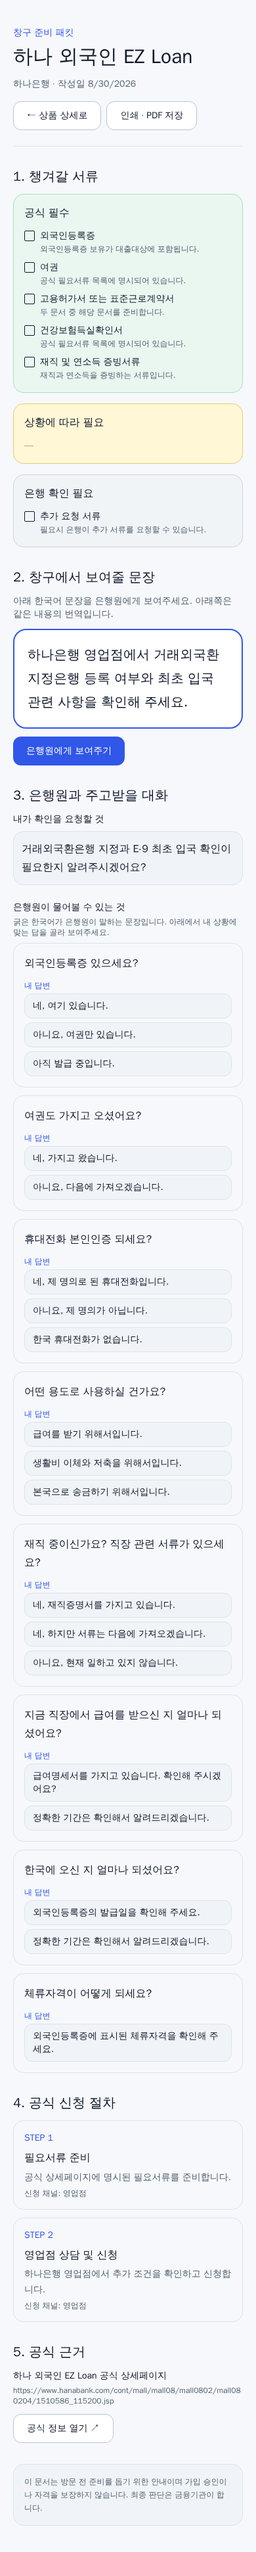
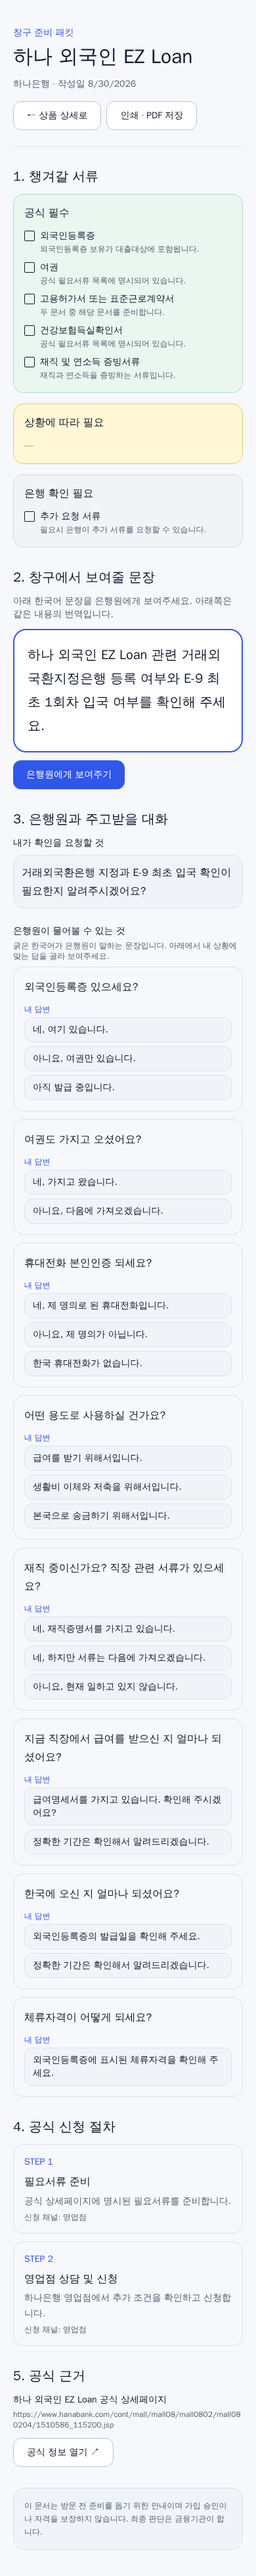
fix: keep section 2 when a product has nothing left to confirm
The counter script only rendered when the explanation carried a bank
inquiry, so a product with no external or unknown condition produced a
packet numbered 1, 3, 4, 5. A customer still has to open the
conversation, so the section now falls back to an opening request
naming the product. It asks; it claims nothing.

diff --git a/frontend/components/bank-visit-packet.tsx b/frontend/components/bank-visit-packet.tsx
@@ -13,7 +13,7 @@ import { getProduct } from "@/services/product";
 import { getPersonalizedGuidance } from "@/services/guidance";
 import { precheckEligibility } from "@/services/eligibility";
 import { getAiExplanation } from "@/services/ai-explanation";
-import { conditionAsks, tellerExchangesFor } from "@/lib/teller-questions";
+import { conditionAsks, openingRequest, tellerExchangesFor } from "@/lib/teller-questions";
 import type { ProductDocumentRequirement } from "@/types/guidance";
 
 const copy = {
@@ -45,7 +45,10 @@ export function BankVisitPacket() {
   if (!product.data || !guidance.data || !precheck.data || !explanation.data) return <Shell><p className="text-sm text-muted" aria-live="polite">{text.loading}</p></Shell>;
 
   const name = productNameLabel(locale, product.data.productCode, product.data.productName);
-  const inquiry = explanation.data.inquiry;
+  // Nothing left for the bank to confirm still needs an opening line, and section 2 must not
+  // vanish and leave the packet numbered 1, 3, 4, 5.
+  const inquiry = explanation.data.inquiry
+    ?? { korean: openingRequest(product.data.productName).ko, localized: openingRequest(product.data.productName)[locale] };
   const confirmations = [...precheck.data.externalChecks, ...precheck.data.unknownRules];
   const exchanges = tellerExchangesFor(product.data.rules.map((rule) => rule.ruleKey));
   const groups: Array<{ title: string; tone: string; items: ProductDocumentRequirement[] }> = [
@@ -78,14 +81,14 @@ export function BankVisitPacket() {
       </div>}
     </Section>
 
-    {inquiry ? <Section title={text.script}>
+    <Section title={text.script}>
       <p className="text-sm text-muted print:hidden">{text.scriptHint}</p>
       <div className="mt-3 rounded-panel border-2 border-brand bg-surface p-5">
         <p className="text-xl font-bold leading-9 text-ink sm:text-2xl">{inquiry.korean}</p>
         {locale === "ko" ? null : <p className="mt-4 border-t border-line pt-4 text-sm leading-7 text-muted">{inquiry.localized}</p>}
       </div>
       <button className="ui-button ui-button-primary mt-3 print:hidden" onClick={() => setShowing(true)} type="button">{text.show}</button>
-    </Section> : null}
+    </Section>
 
     <Section title={text.confirm}>
       <h3 className="text-sm font-bold text-ink">{text.iAsk}</h3>
@@ -118,7 +121,7 @@ export function BankVisitPacket() {
 
     <p className="mt-8 rounded-card border border-line bg-surface-subtle p-4 text-xs leading-5 text-muted">{text.notice}</p>
 
-    {showing && inquiry ? <div className="fixed inset-0 z-50 flex flex-col bg-surface p-6 print:hidden" role="dialog" aria-modal="true">
+    {showing ? <div className="fixed inset-0 z-50 flex flex-col bg-surface p-6 print:hidden" role="dialog" aria-modal="true">
       <button className="ui-button ui-button-secondary self-end" onClick={() => setShowing(false)} type="button">{text.close}</button>
       <div className="flex flex-1 items-center overflow-y-auto py-6"><p className="text-2xl font-bold leading-10 text-ink sm:text-4xl sm:leading-[3.5rem]">{inquiry.korean}</p></div>
     </div> : null}

diff --git a/frontend/e2e/bank-visit-packet.spec.ts b/frontend/e2e/bank-visit-packet.spec.ts
@@ -35,7 +35,7 @@ async function json(route: Route, body: unknown, status = 200) {
   await route.fulfill({ status, contentType: "application/json", body: JSON.stringify(body) });
 }
 
-async function mockPacketApi(page: Page) {
+async function mockPacketApi(page: Page, eligibilityOverride = eligibility, explanationOverride = explanation) {
   await page.addInitScript(() => {
     localStorage.setItem("visafyProfileId", "1");
     localStorage.setItem("visafyProfileSessionId", "e2e-session");
@@ -45,8 +45,8 @@ async function mockPacketApi(page: Page) {
     const path = new URL(route.request().url()).pathname;
     if (path === "/api/products/10") return json(route, product);
     if (path === "/api/products/10/guidance") return json(route, guidance);
-    if (path === "/api/eligibility/pre-check") return json(route, eligibility);
-    if (path === "/api/ai/explanation") return json(route, explanation);
+    if (path === "/api/eligibility/pre-check") return json(route, eligibilityOverride);
+    if (path === "/api/ai/explanation") return json(route, explanationOverride);
     if (path === "/api/profiles/1") return json(route, { id: 1, sessionId: "e2e-session", nationality: "VN", language: "en" });
     return json(route, { message: `Unhandled ${path}` }, 500);
   });
@@ -109,4 +109,18 @@ test("the packet asks for a profile before it is built", async ({ page }) => {
 
   await expect(page.getByText("먼저 임시 금융 프로필을 입력해 주세요.")).toBeVisible();
   await expect(page.getByRole("link", { name: /프로필 입력/ })).toBeVisible();
+});
+
+test("a product with nothing left to confirm still gets all five sections", async ({ page }) => {
+  await mockPacketApi(page, { ...eligibility, externalChecks: [], unknownRules: [] },
+    { ...explanation, inquiry: null });
+  await page.goto("/products/10/packet");
+
+  // Section 2 must not vanish and leave the packet numbered 1, 3, 4, 5.
+  for (const heading of ["1. Documents to bring", "2. What to show at the counter",
+    "3. Talking with the teller", "4. Official application steps", "5. Official evidence"]) {
+    await expect(page.getByRole("heading", { name: heading })).toBeVisible();
+  }
+  await expect(page.getByText("안녕하세요. 외국인 전용 입출금통장 상품에 가입하고 싶습니다.")).toBeVisible();
+  await expect(page.getByText("There is nothing further to confirm.")).toBeVisible();
 });

diff --git a/frontend/lib/teller-questions.ts b/frontend/lib/teller-questions.ts
@@ -245,6 +245,22 @@ export const conditionAsks: Record<string, Phrase> = {
   },
 };
 
+/**
+ * Opening line for a product where nothing is left for the bank to confirm. The customer still has
+ * to start the conversation, so the packet always carries a sentence to show. It asks; it claims
+ * nothing.
+ */
+export function openingRequest(productName: string): Phrase {
+  return {
+    ko: `안녕하세요. ${productName} 상품에 가입하고 싶습니다. 필요한 서류와 절차를 안내해 주시겠어요?`,
+    en: `Hello. I would like to open ${productName}. Could you tell me which documents and steps are needed?`,
+    vi: `Xin chào. Tôi muốn đăng ký ${productName}. Bạn có thể cho tôi biết cần giấy tờ và quy trình nào không?`,
+    zh: `您好。我想申请${productName}。能否告诉我需要哪些材料和办理流程？`,
+    ja: `こんにちは。${productName}に加入したいです。必要な書類と手続きを教えていただけますか。`,
+    th: `สวัสดีค่ะ/ครับ ฉันต้องการสมัคร ${productName} ช่วยแจ้งเอกสารและขั้นตอนที่ต้องใช้ได้ไหม`,
+  };
+}
+
 /** Baseline questions first, then the ones the product's own conditions bring in. */
 export function tellerExchangesFor(ruleKeys: string[]): TellerExchange[] {
   const matched = Array.from(new Set(ruleKeys))

diff --git a/frontend/e2e/live-capture.spec.ts b/frontend/e2e/live-capture.spec.ts
@@ -56,6 +56,19 @@ test("capture the demo screens from the deployed site", async ({ page, request }
   }
 });
 
+test("capture the packet in English to show the six-language coverage", async ({ page, request }) => {
+  test.setTimeout(180_000);
+  const ids = await productIds(request);
+  await seedProfile(request, page, { language: "en" });
+  await page.setViewportSize({ width: 1280, height: 1000 });
+
+  await page.goto(`/products/${ids["KB-STAR-TIME-DEPOSIT"]}/packet`);
+  await page.getByRole("heading", { name: /5\./ }).waitFor({ timeout: 120_000 });
+  await page.waitForTimeout(2500);
+  await page.screenshot({ path: `${outputDirectory}/10-packet-english.png`, fullPage: true });
+  console.log("captured english packet");
+});
+
 test("capture the packet on a phone-sized screen", async ({ page, request }) => {
   test.setTimeout(180_000);
   const ids = await productIds(request);
